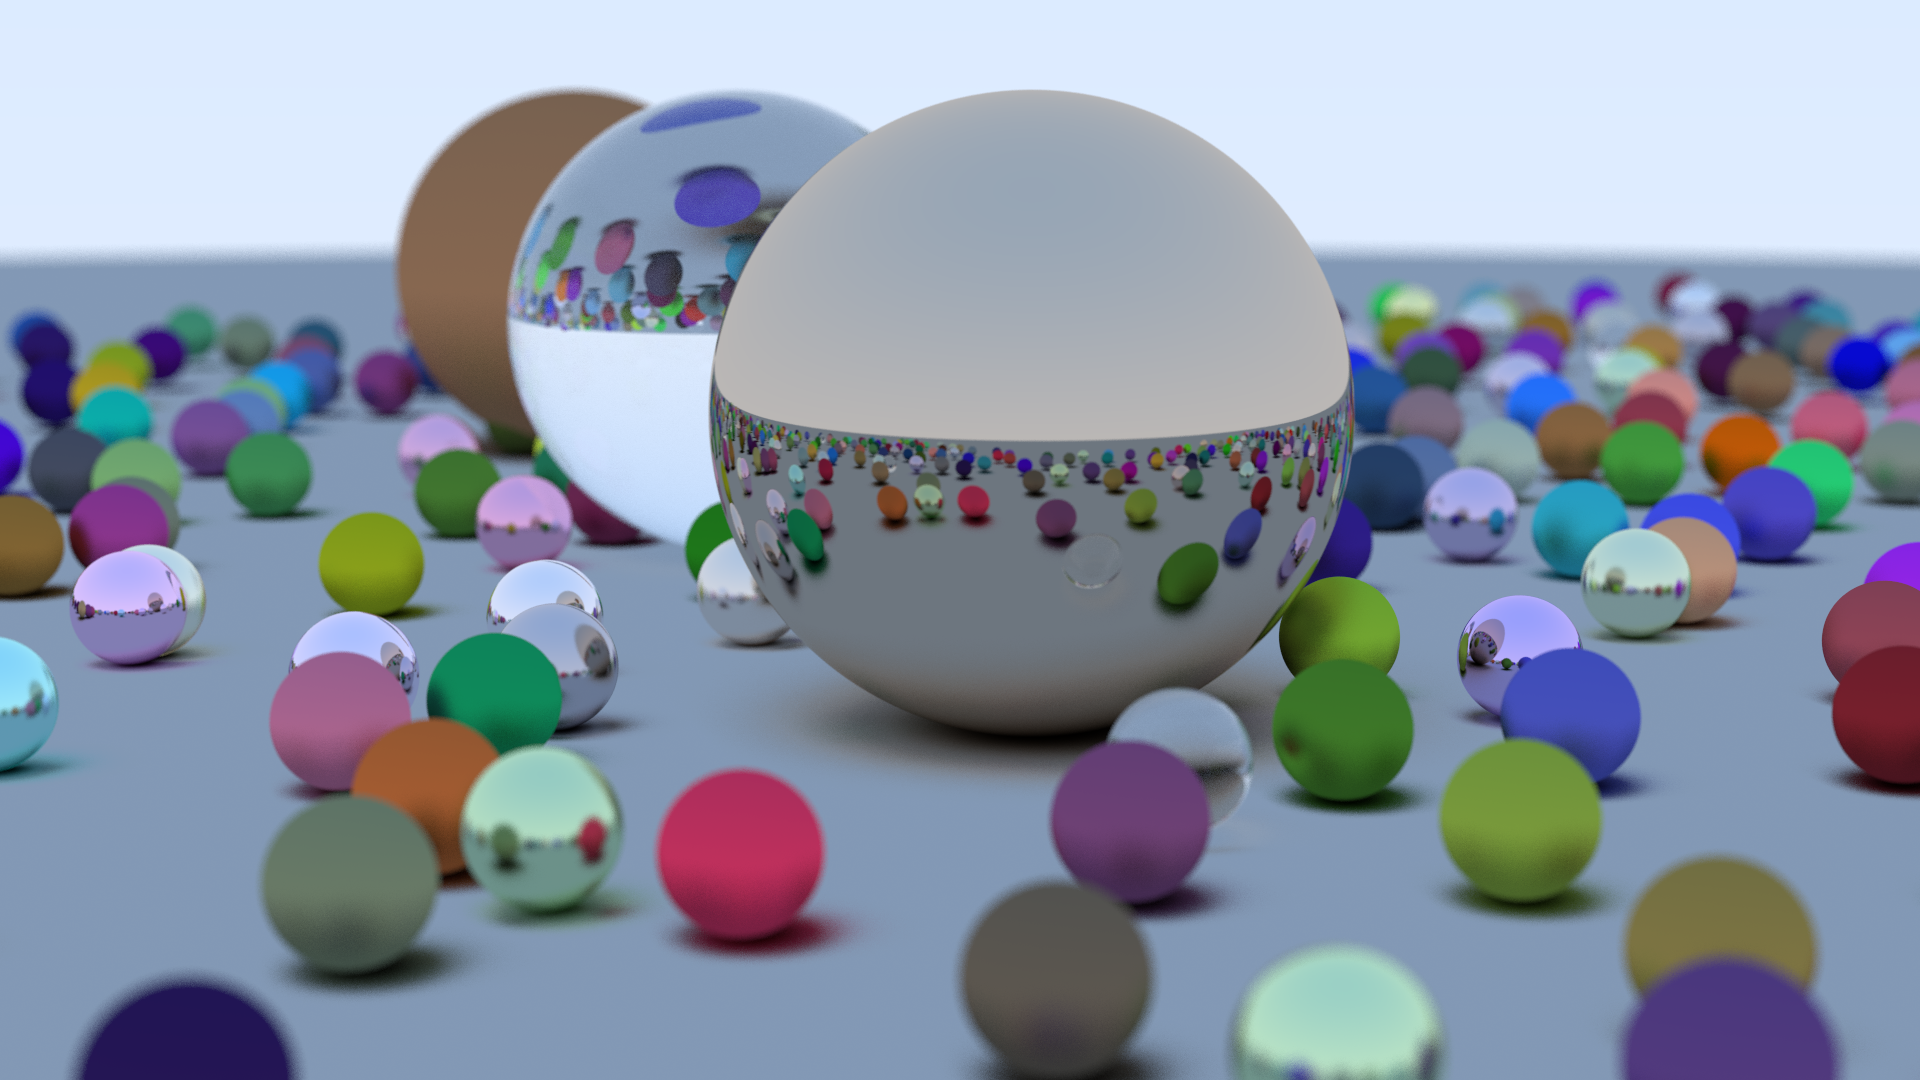
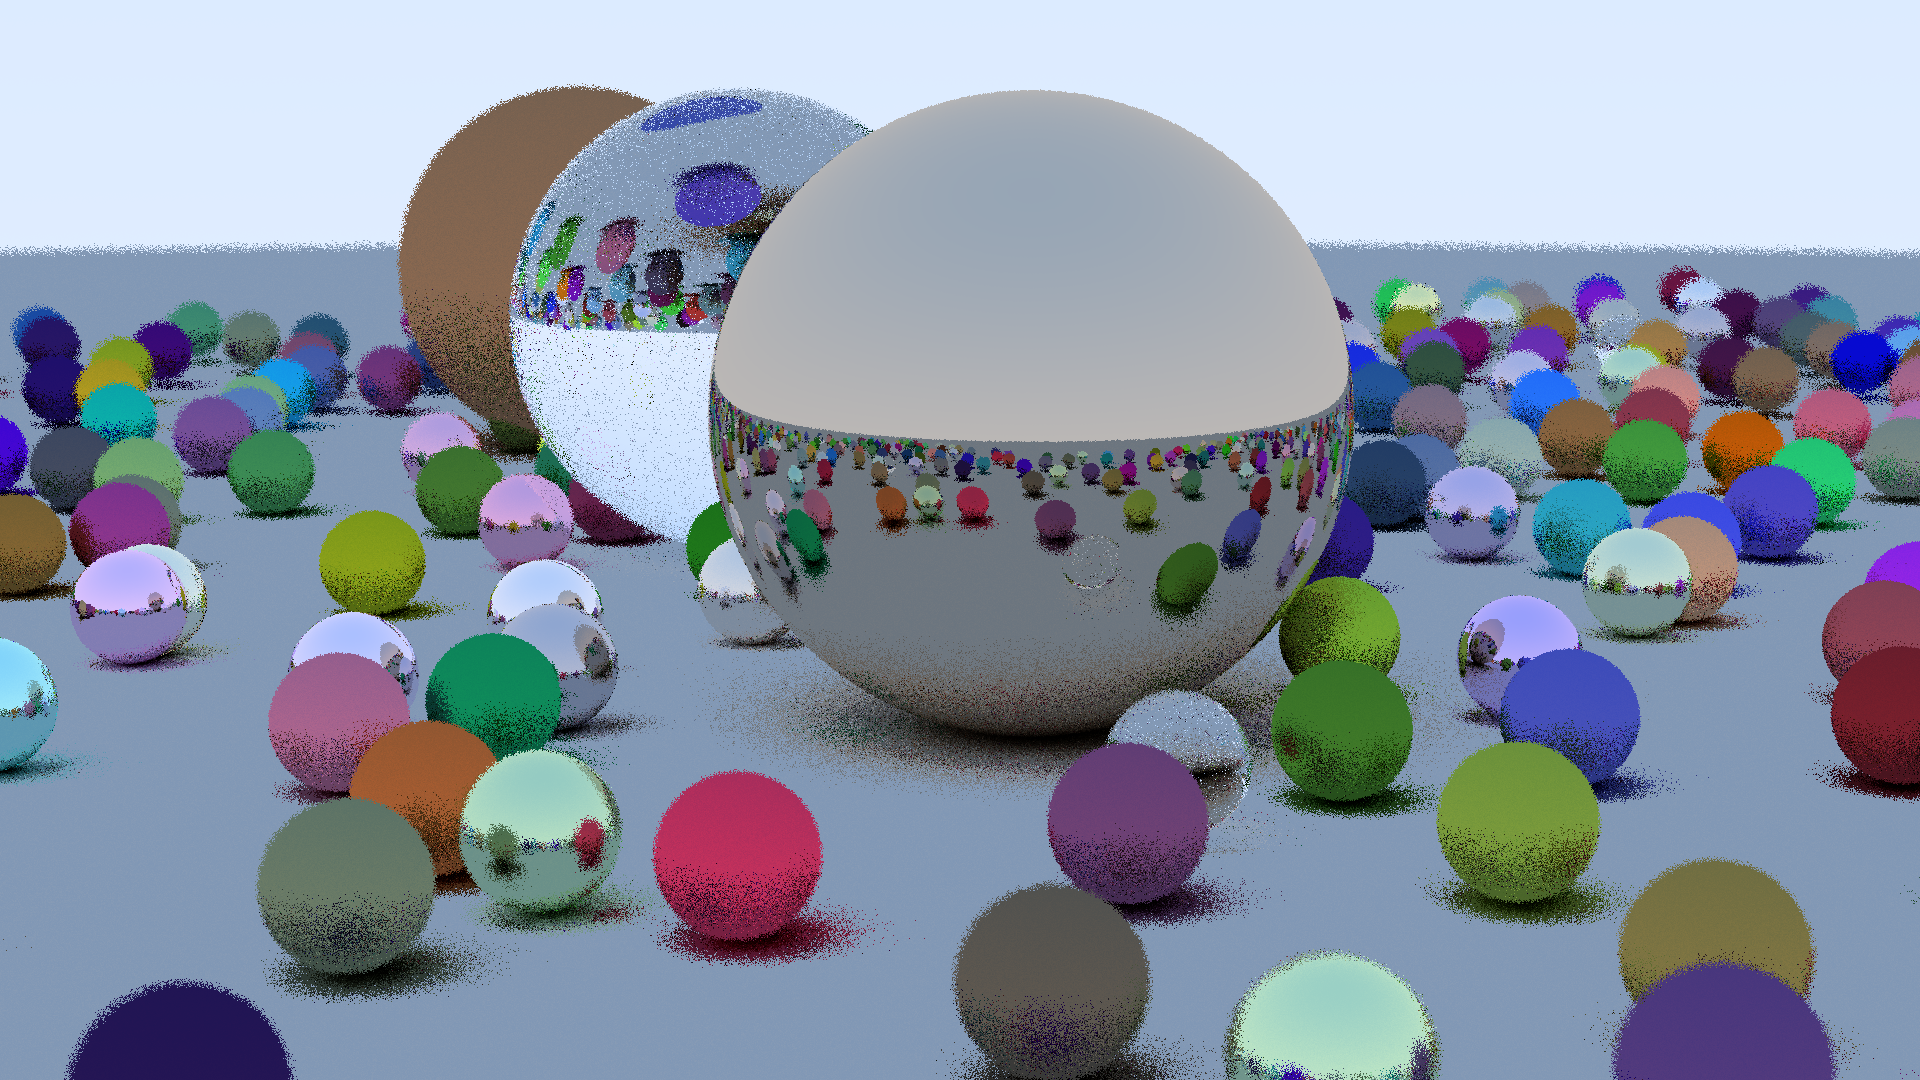
update random disk algorithm

diff --git a/src/main.cpp b/src/main.cpp
@@ -32,7 +32,7 @@ namespace
     const int image_height = 1080;
     const float width_to_height_ratio = (float)image_width / (float)image_height;
 
-    const int msaa_sample_count = 200;
+    const int msaa_sample_count = 1;
 
     const std::shared_ptr<hitable> world = random_scene();
 
@@ -98,8 +98,6 @@ int main()
 {
     srand48(int(time(0)));
 
-    std::cout << "P3\n" << image_width << " " << image_height << "\n255\n";
-    
     {
         // since the destructor of ThreadPool joins all thread
         // I use a simple scope to wait for all works to be done

diff --git a/src/util.cpp b/src/util.cpp
@@ -8,12 +8,10 @@
 
 vec3 random_in_unit_disk()
 {
-    vec3 p;
-    do
-    {
-        p = 2.0f * vec3(drand48(), drand48(), 0.0f) - vec3(1.0f, 1.0f, 0.0f);
-    } while (dot(p, p) >= 1.0f);
-    return p;
+    vec3 direction(drand48(), drand48(), 0);
+    float mag = cbrtf(drand48());
+
+    return mag * unit_vector(direction);
 }
 
 vec3 random_in_unit_sphere()
